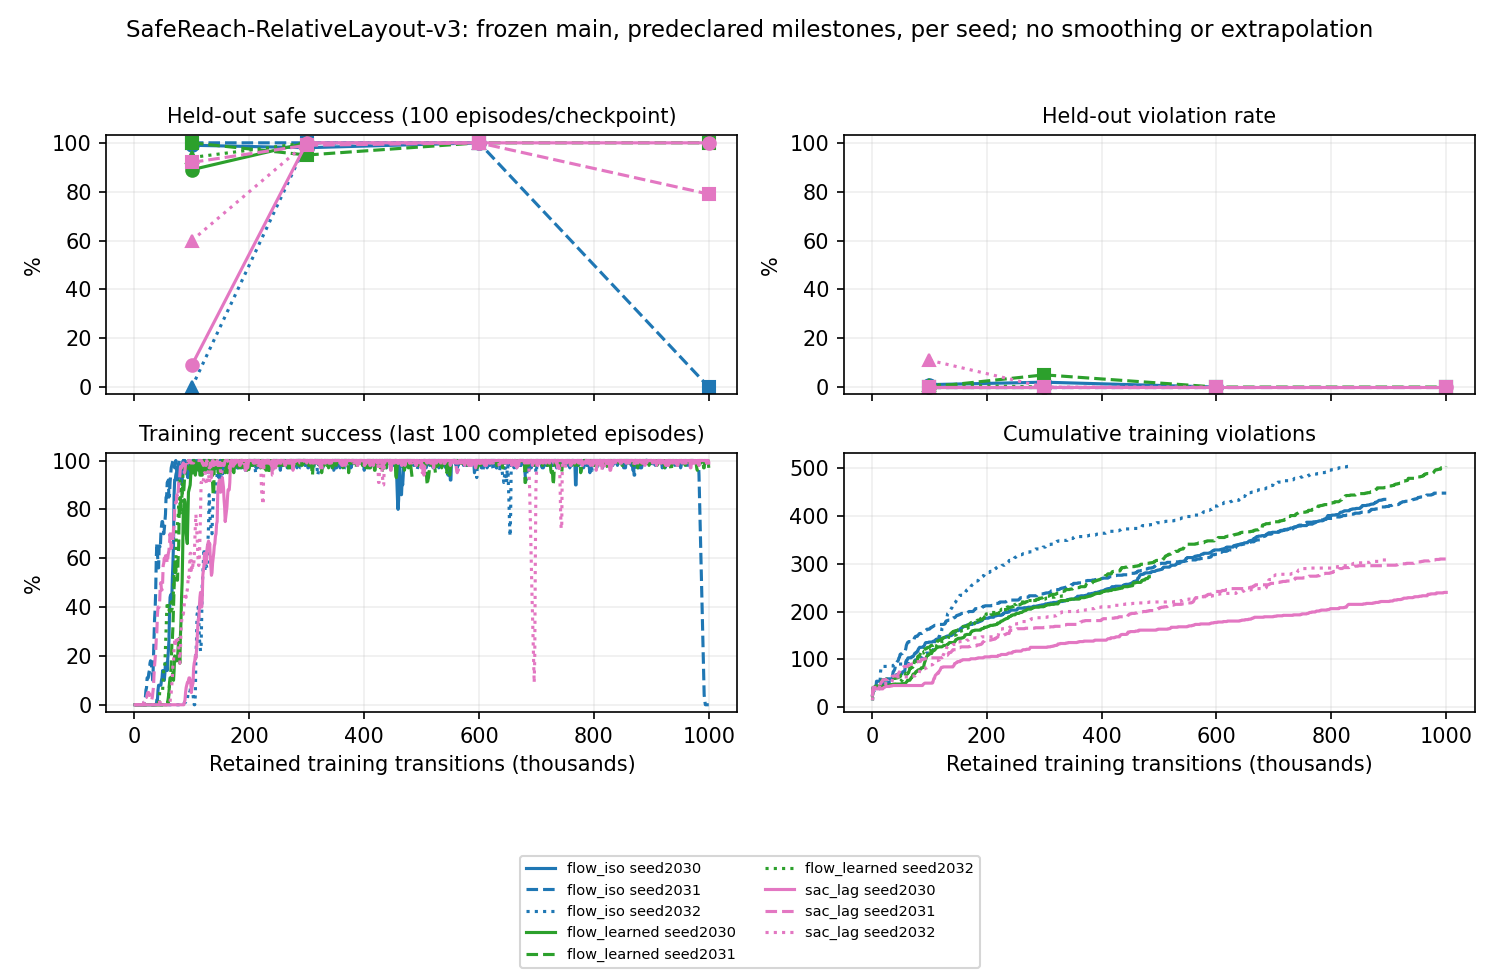
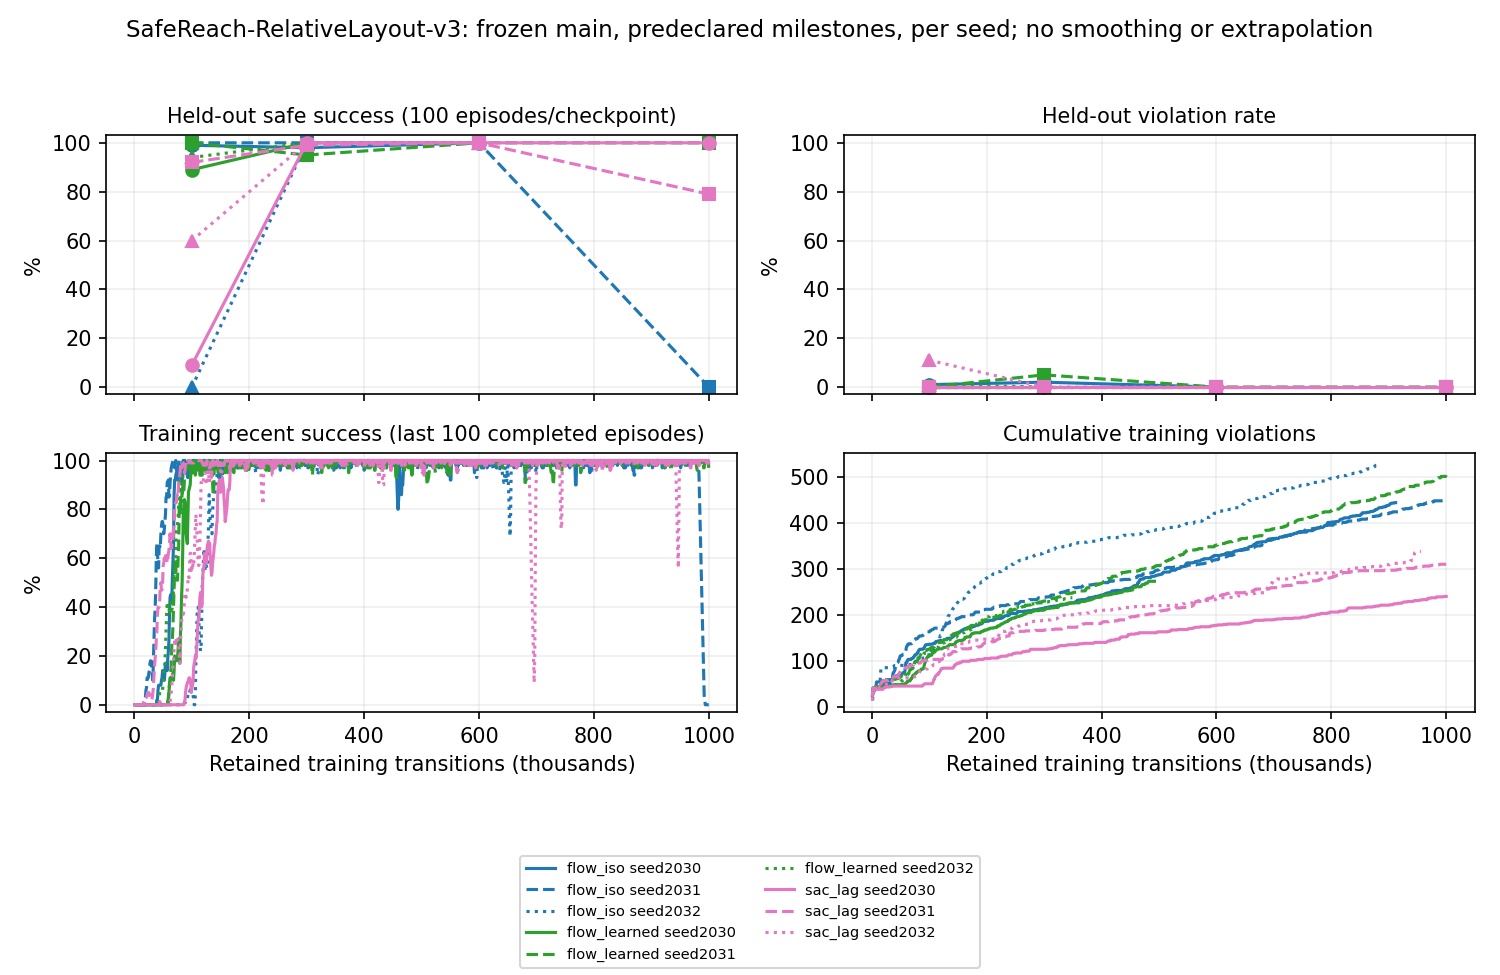
Record A100 load and preserve active frozen-main trajectories at 84 percent

diff --git a/reports/star/arm_safe_entropy/ARM_SAFE_ENTROPY_REPORT.md b/reports/star/arm_safe_entropy/ARM_SAFE_ENTROPY_REPORT.md
@@ -27,7 +27,7 @@ Initial resources: A1002x80GB idle,128 CPU threads; other workloads occupy
 First platform is panda-gym/PyBullet, for real link-distance labels and exact
 same-controller counterfactual geometry. Simulation FPS is not learner FPS.
 
-## Current frozen-main execution — 2026-11-10 04:49 check and four completed formal tests
+## Current frozen-main execution — 2026-11-10 05:00 check and four completed formal tests
 
 Five native main trainers are directly confirmed alive and past random warmup;
 four completed runs account for the rest of the nine-run frozen cohort.
@@ -38,16 +38,16 @@ requested100k/300k/600k/1M evaluation milestones,100 episodes each.
 
 | Training seed / host | SAC-Lag | Flow-Iso | LearnedDir |
 |---|---|---|---|
-| 2030 / A100 | completed1M,native receipt | running893k,PID857626 | running483k,PID857627 |
+| 2030 / A100 | completed1M,native receipt | running912k,PID857626 | running492k,PID857627 |
 | 2031 /4080,4T | completed1M,native receipt | completed1M,native receipt | completed1M,native receipt |
-| 2032 /A100+4080 | running895k,PID749852 | running836k,PID738207 | running339k,A100 GPU1,PID947125 |
+| 2032 /A100+4080 | running956k,PID749852 | running884k,PID738207 | running349k,A100 GPU1,PID947125 |
 
 The04:48:59 watcher directly confirmed all five live native PIDs and all four
 native1M completion receipts; those four trainers have exited normally.
-The table uses the subsequent compact progress capture. These are observed
+The table uses the subsequent05:00 compact progress capture. These are observed
 progress/queue states, not extrapolated evaluation values.
-The nine accepted native counters now total7.446M/9M primary transitions
-(82.7% of the fixed budget).
+The nine accepted native counters now total7.593M/9M primary transitions
+(84.4% of the fixed budget).
 This sum excludes the original failed5080 deployments, rather than silently
 adding their partial counters to the fresh accepted2032 runs. Four full runs
 and80/180 formal condition rows are complete; partial steps are not completion.
@@ -92,10 +92,10 @@ This is one completed held-out training seed, not proof of cross-seed
 robustness, lower training cost, superiority to a v3 Iso-Low control (none was
 requested), or completion of the nine-run formal objective. The remaining
 five runs and their required fixed tests continue without new modules or tuning.
-No additional1M completion or fixed evaluation was available in this04:49
+No additional1M completion or fixed evaluation was available in this05:00
 capture. The29 native milestones remain retained, and the full formal table
 remains80/180 condition rows and4/9 completed run evaluations. Progress above
-is actual training, not a claim that the whole experiment is82.7% complete in wall time.
+is actual training, not a claim that the whole experiment is84.4% complete in wall time.
 
 **5080 is no longer used for training, per the user's instruction.** Its Iso/
 Learned2032 PIDs disappeared at about35k/19k before any fixed evaluation.
@@ -506,6 +506,20 @@ The04:48:59 observation again directly confirmed all five active trainers,
 with A100 utilization20%/91% and4080 utilization98%. The near-final SAC2032
 counter is still a partial run, not a substituted1M evaluation. No restart,
 affinity adjustment, new experiment or scientific budget change occurred.
+
+At04:58, responding to the renewed A100 priority request, one resource/status
+sample found A100 GPU0/GPU1 at21%/91% and4080 at83%. GPU0 has Iso2030;
+GPU1 has Learned2030 and Learned2032;4080 has Iso2032 and SAC2032. All nine
+planned runs have already started, with no untouched training job to schedule
+on GPU0. Required frozen-model tests will use GPU0 as runs finish. This is
+useful evaluation work, not an additional training experiment or a claim of
+sustained100% utilization. The training loop performs synchronous action
+generation, simulation and updates; free VRAM alone does not establish unused
+end-to-end throughput. No live trainer was interrupted to migrate cards:
+the current resume path restores learner/replay/RNG but resets physical
+episodes, and interruption can occur inside an update. Existing trajectories
+and counters were preserved rather than claiming an exact migration that the
+code does not implement. The read-only half-hour watcher remains active.
 
 The reporting-only `collect_main_robustness` helper now mirrors compact
 per-run JSON and writes [MAIN_ROBUSTNESS_RESULTS.csv](MAIN_ROBUSTNESS_RESULTS.csv)
